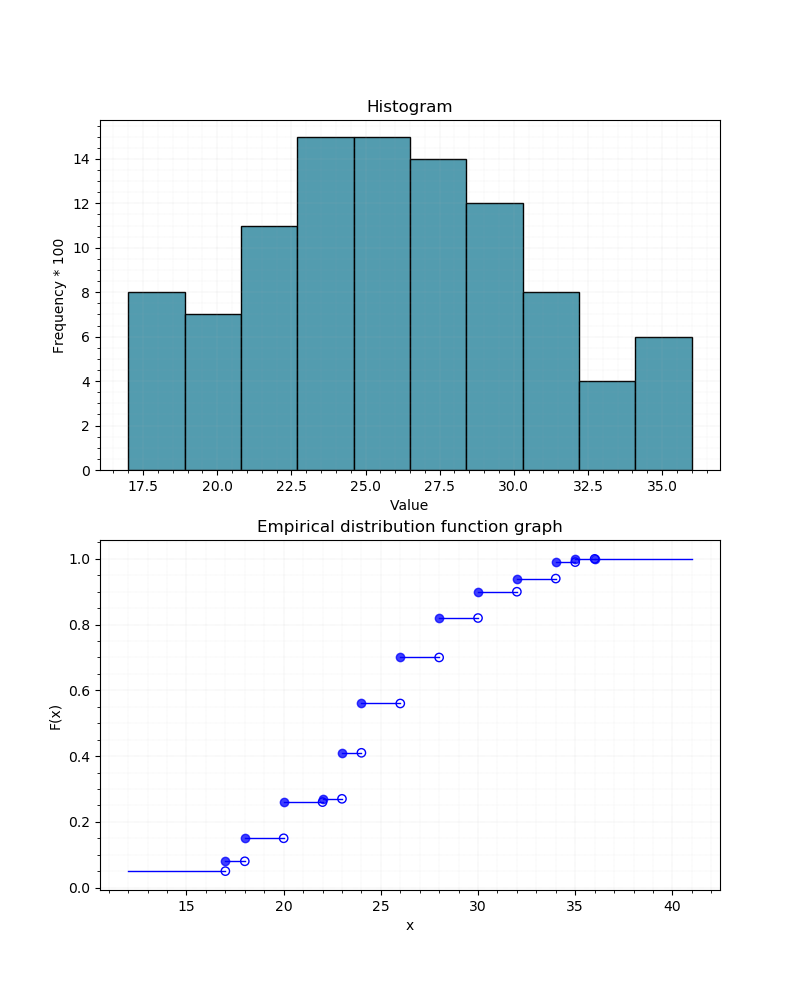
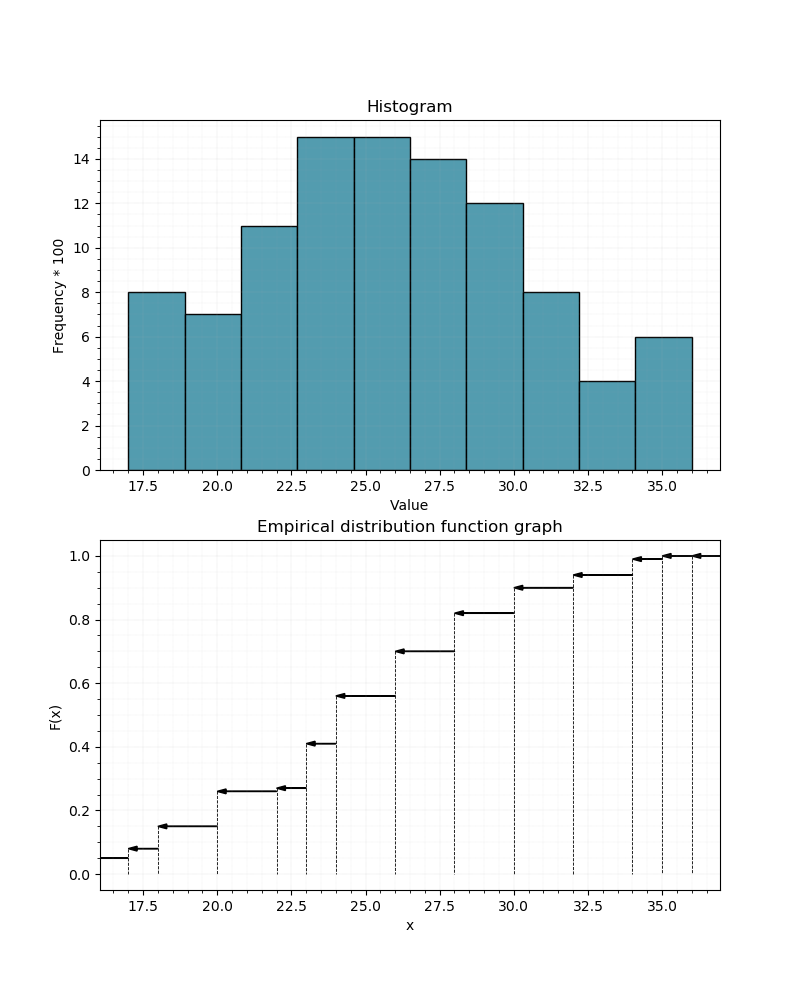
New style empirical dist function graph

diff --git a/Lab1/graphic.py b/Lab1/graphic.py
@@ -22,9 +22,10 @@ class Graphic:
         ax.minorticks_on()
         ax.grid(which='major', linestyle=':', linewidth=0.25)
         ax.grid(which='minor', linestyle=':', linewidth=0.125)
+        # ax.set_xticks(np.unique(data))
         return ax
 
-    def empirical(self, ax, data):
+    def empirical_with_points(self, ax, data):
         """Метод для построения графика эмпирической функции распределения"""
         ax.set_title("Empirical distribution function graph")
         ax.set_ylabel("F(x)")
@@ -75,6 +76,63 @@ class Graphic:
         ax.scatter(df.x.values, df.y.values, facecolors='none', edgecolors='blue', alpha=1)
         return ax
 
+    def empirical_arrows(self, ax, data):
+        """Метод для построения графика эмпирической функции распределения (в виде стрелок)"""
+        ax.set_title("Empirical distribution function graph")
+        ax.set_ylabel("F(x)")
+        ax.set_xlabel("x")
+        # ax2.grid(True, linestyle=':', linewidth='0.5')
+        ax.minorticks_on()
+        ax.grid(which='major', linestyle=':', linewidth=0.25)
+        ax.grid(which='minor', linestyle=':', linewidth=0.125)
+        # ax.set_xticks(np.unique(data))
+
+        value, count = [], []
+        for x in np.unique(data):
+            value.append(x)
+            count.append(np.count_nonzero(np.less_equal(data, x) == True))
+
+        first_last = 5  # для первой и последней линии
+        for i in range(len(value) + 1):
+            if i == 0:
+                x = value[i]
+                y = count[i] / len(data)
+                dx = -first_last
+                dy = 0
+            elif i == len(value):
+                x = value[-1] + first_last
+                y = count[-1] / len(data)
+                dx = -first_last
+                dy = 0
+
+                ax.plot(
+                    [value[-1], value[-1]], [count[-1] / len(data), 0],
+                    linewidth=0.6,
+                    color='black',
+                    linestyle='--'
+                )
+            else:
+                x = value[i]
+                y = count[i] / len(data)
+                dx = value[i - 1] - value[i]
+                dy = 0
+
+                ax.plot(
+                    [value[i - 1], value[i - 1]], [count[i] / len(data), 0],
+                    linewidth=0.6,
+                    color='black',
+                    linestyle='--'
+                )
+            ax.arrow(x, y, dx, dy,
+                     width=0.001,
+                     length_includes_head=True,
+                     head_width=0.015,
+                     head_length=0.3,
+                     color='black',
+                     overhang=0
+                     )
+        return ax
+
     def build_hist_and_emp(self, data, n_bins=10, file="graphics.png"):
         """Метод для построения 2х графиков в одном файле"""
         fig, (ax1, ax2) = plt.subplots(
@@ -82,6 +140,6 @@ class Graphic:
             figsize=(8, 10)
         )
         ax1 = self.histogram(ax1, data)
-        ax2 = self.empirical(ax2, data)
+        ax2 = self.empirical_arrows(ax2, data)
 
         fig.savefig(file)
